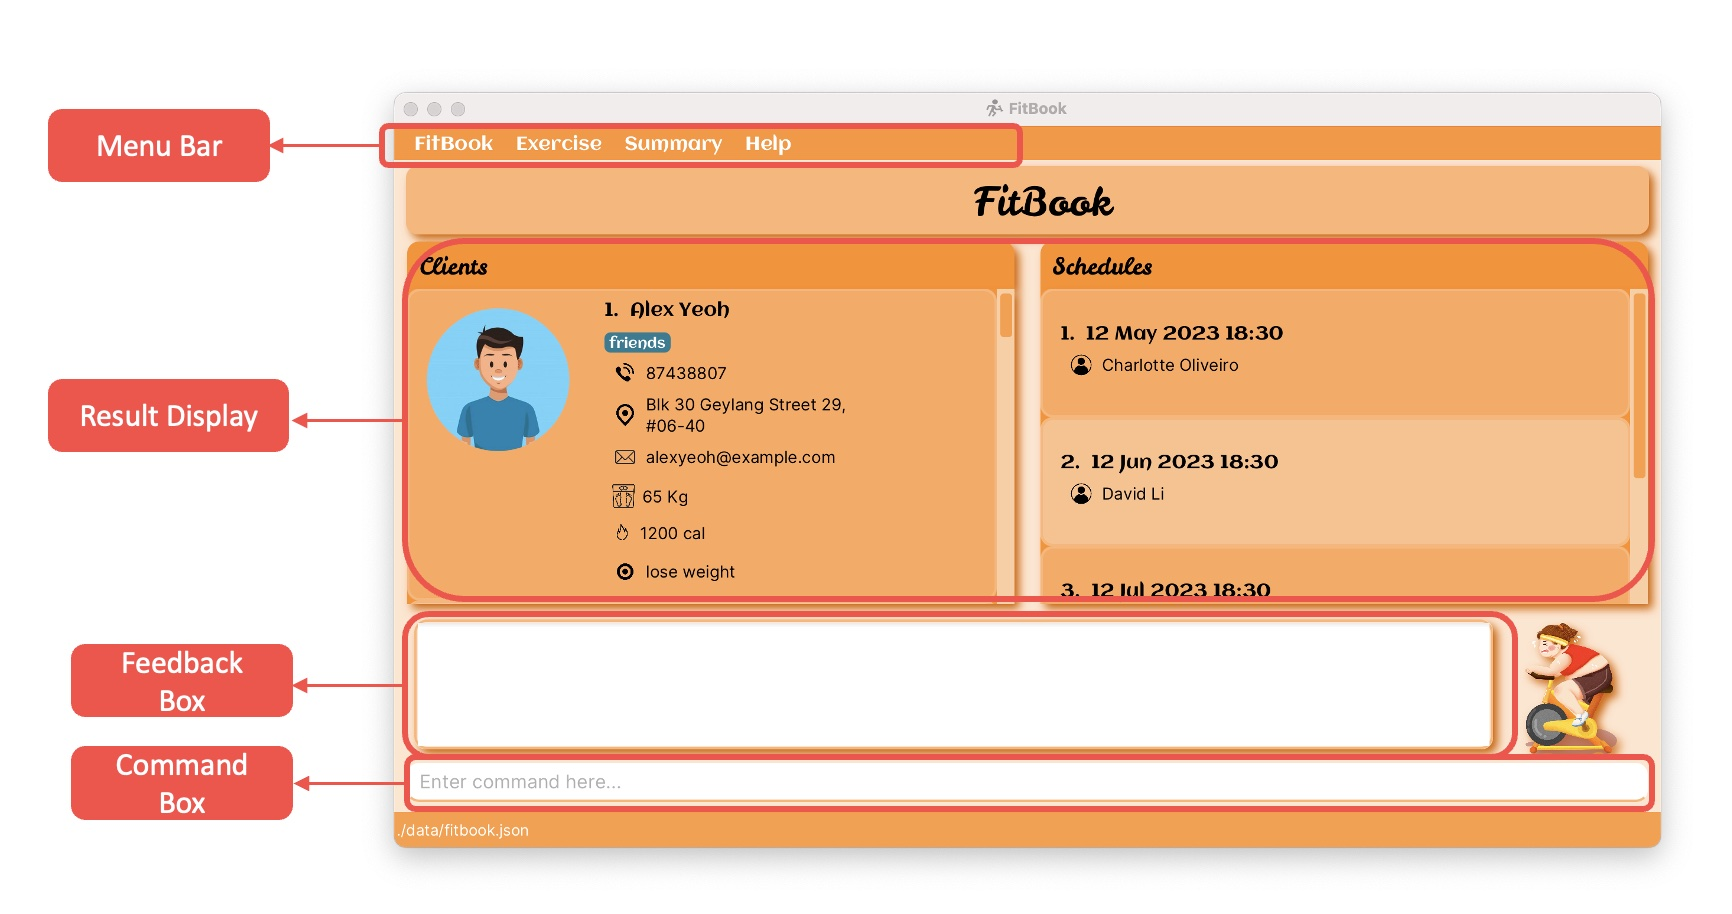
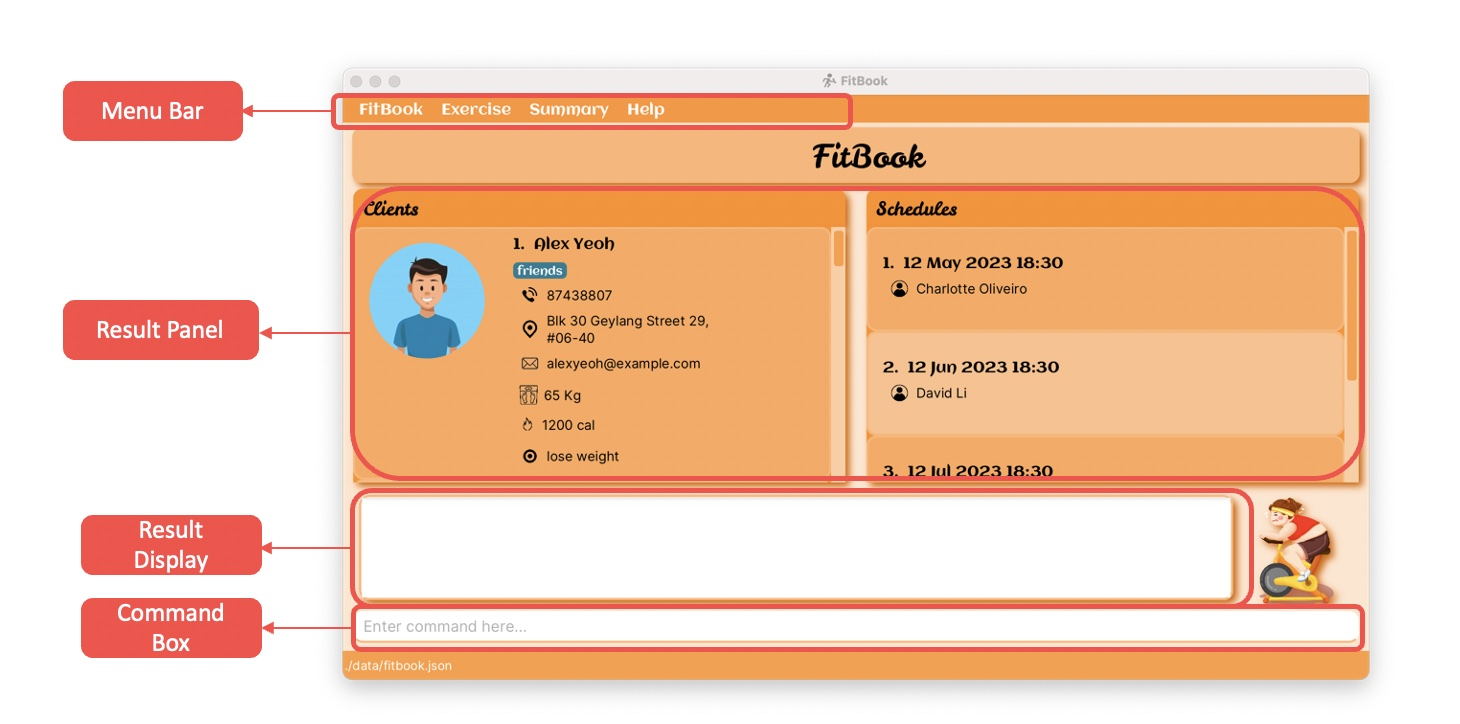
Update UG, PPP and DG
Current UG, PPP and DG are incomplete.

Require to update.

Let's update UG, PPP and DG.

Can only update manually.

Changed region(s): [[0.0, 0.0912, 0.9863, 0.942], [0.0, 0.395, 0.1849, 0.5166]]

diff --git a/docs/UserGuide.md b/docs/UserGuide.md
@@ -6,7 +6,7 @@ title: User Guide
 
 <h2><div style="color:#f9963f">About FitBook</div></h2>
 
-FitBook is a **desktop application for managing clients, optimized for use via a Command Line Interface** (CLI) while still having the benefits of a Graphical User Interface (GUI). If you can type fast, Fitbook can get your client management tasks done faster than traditional GUI apps.
+FitBook is a **desktop application for managing clients, optimized for use via a Command Line Interface** (CLI) while still having the benefits of a Graphical User Interface (GUI). If you can type fast, FitBook can get your client management tasks done faster than traditional GUI apps.
 
 This User Guide provides brief documentation on how you can install the application and describes how each feature should be used. Start by looking at the [quick start](#quick-start) guide to get you started.
 * Table of Contents
@@ -19,7 +19,6 @@ This User Guide provides brief documentation on how you can install the applicat
 1. Before using FitBook, make sure to install **Java** `11` or later version in your Computer. This is required to ensure proper functionality of the application. Please install the correct Java version to use FitBook. 
    * To check Java version, please follow the instructions [here](https://blog.hubspot.com/website/check-java-verison).
    * If your computer does not have java installed, or if the version is older than Java 11, you may refer to the guide [here](https://docs.oracle.com/en/java/javase/11/install/overview-jdk-installation.html#GUID-8677A77F-231A-40F7-98B9-1FD0B48C346A).
-
 
 2. **Download** the latest `fitbook.jar` from [here](https://github.com/AY2223S2-CS2103T-T15-2/tp/releases).
 
@@ -55,7 +54,6 @@ This User Guide provides brief documentation on how you can install the applicat
 
    * `exit` : Exits the app.
 
-
 6. Refer to the [Features](#features) below for details of each command.
 
 --------------------------------------------------------------------------------------------------------------------
@@ -84,7 +82,7 @@ The menu bar is typically located at the top of the user interface and is primar
 #### Help
 * Provides a new tab outside FitBook with the link to the User Guide.
 
-### Result Display
+### Result Panel
 
 Panels are _empty_ when the data for that specific panel is _empty_.
 
@@ -109,7 +107,7 @@ Panels are _empty_ when the data for that specific panel is _empty_.
 
   ![Summary Panel](images/summary.png)
 
-### Feedback Box
+### Result Display
 When you enter a command into the Command Box of the application, the system will provide a feedback message to you through the display. This feedback message is designed to inform you of the status of the command you entered, such as whether it was executed successfully or encountered an error. The feedback message may also include additional information related to the command, such as the results of the command's execution or any other relevant details.
 ### Command Box
 The Command Box is where you can type in your commands. To execute the command, simply press the "Enter" button on your keyboard. This will send the command to the system for processing.
@@ -129,7 +127,7 @@ The Command Box is where you can type in your commands. To execute the command, 
   e.g. in `add n/NAME`, `NAME` is a parameter which can be used as `add n/John Doe`.
 
 * Items in square brackets are optional.<br>
-  e.g `n/NAME [t/TAG]` can be used as `n/John Doe t/friend` or as `n/John Doe`.
+  e.g. `n/NAME [t/TAG]` can be used as `n/John Doe t/friend` or as `n/John Doe`.
 
 * Items with `…` after them can be used multiple times including zero times.<br>
   e.g. `[t/TAG]…` can be used as ` ` (i.e. 0 times), `t/friend`, `t/friend t/family` etc.
@@ -137,7 +135,7 @@ The Command Box is where you can type in your commands. To execute the command, 
 * Parameters can be in any order.<br>
   e.g. if the command specifies `n/NAME p/PHONE_NUMBER`, `p/PHONE_NUMBER n/NAME` is also acceptable.
 
-* If a parameter is expected only once in the command but you specified it multiple times, only the last occurrence of the parameter will be taken.<br>
+* If a parameter is expected only once in the command, but you specified it multiple times, only the last occurrence of the parameter will be taken.<br>
   e.g. if you specify `p/12341234 p/56785678`, only `p/56785678` will be taken.
 
 * Extraneous parameters for commands that do not take in parameters (such as `help`, `list`, `exit`, `export`, `exportRoutine`, `listRoutines`, `clearRoutines` and `clear`) will be ignored.<br>
@@ -233,7 +231,7 @@ Format: `edit CLIENT_INDEX n/NAME p/PHONE_NUMBER e/EMAIL a/ADDRESS w/WEIGHT g/GE
 * The index must not be larger than `Integer.MAX_VALUE` i.e. 2147483647
 * At least one of the optional fields must be provided.
 * Existing values will be updated to the input values.
-* When editing `tags`,`appointments` and `routines`, the existing `tags`,`appointments` and `routines` of the client will be removed i.e adding of `tags`,`appointments` and `routines` are not cumulative.
+* When editing `tags`,`appointments` and `routines`, the existing `tags`,`appointments` and `routines` of the client will be removed i.e. adding of `tags`,`appointments` and `routines` are not cumulative.
 * You can remove all the client’s tags by typing `t/` without specifying any tags after it. (same for `appointments` with `/app` prefix and `routines` with `/r`)
 * `APPOINTMENT` needs to be later than the current time, or it will get deleted.
 
@@ -421,7 +419,7 @@ Format: `addRoutine r/ROUTINE_NAME [ex/EXERCISE]…`
 
 Examples:
 * `addRoutine r/Cardio`
-* `addRoutine r/HIIT ex/3x10sets of Jumping ropes`
+* `addRoutine r/HIIT ex/3x10sets of Jumping ropes`F
 
 Example: (Adding Routine without any exercises)
 ![AddRoutine](images/AddRoutineUG.png)

diff --git a/docs/AboutUs.md b/docs/AboutUs.md
@@ -13,7 +13,7 @@ Darius Ng - `darius-ng@live.com`
 
 Kalaris Ng - `to be added`
 
-JiaHui Liao - `e0775484@nus.edu.sg`
+JiaHui Liao - `e0775484@u.nus.edu`
 
 
 ## Project team
